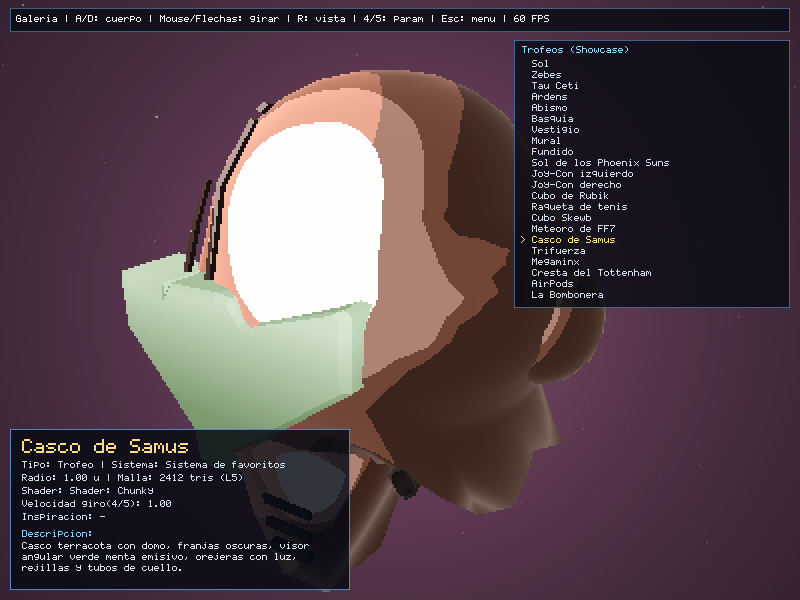
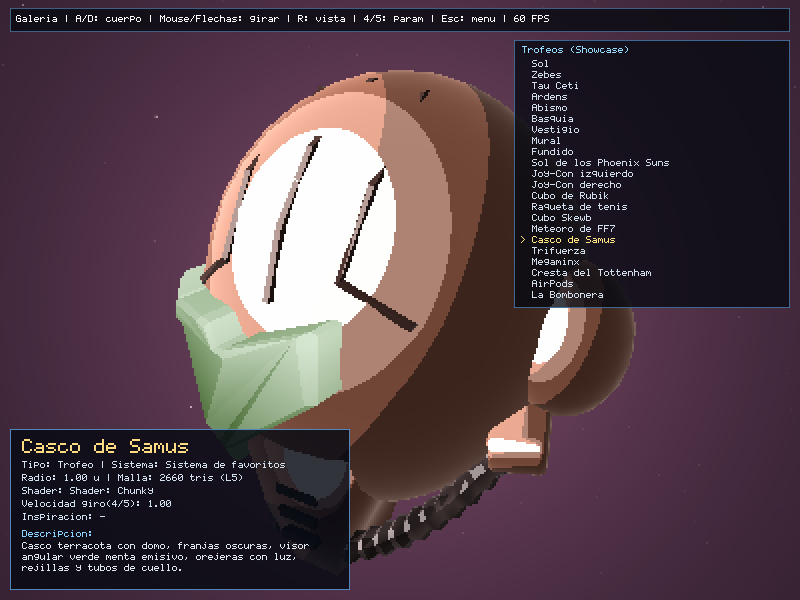
fix(bodies): Cerrar la herradura de La Bombonera y curvar el visor de Samus sobre la cúpula.

diff --git a/src/bodies.rs b/src/bodies.rs
@@ -1064,8 +1064,8 @@ fn samus_radial_at(angle: f32) -> f32 {
 }
 
 /// Construye el casco de Samus Aran a partir de las medidas de `refs/samus_helmet.jpg`:
-/// cúpula con perfil radial medido y barniz, 3 surcos oscuros proyectados, visor verde
-/// emisivo medido, barbilla con 3 rendijas, orejeras simétricas y mangueras acanaladas.
+/// cúpula ovalada con barniz, 3 surcos oscuros proyectados, visor verde emisivo curvado
+/// sobre el rostro, barbilla con 3 rendijas, orejeras simétricas con pómulos y mangueras acanaladas.
 pub fn build_samus_helmet_mesh(detail: usize) -> Mesh {
     use crate::samus_bombonera_data::*;
     let armor = rgb_vec(SAMUS_ARMOR_RGB);
@@ -1082,61 +1082,71 @@ pub fn build_samus_helmet_mesh(detail: usize) -> Mesh {
     };
 
     let mut mesh = Mesh::new();
-    let dome_depth = SAMUS_HALF_WIDTH * 0.85;
+    let rx = 0.78_f32;
+    let ry = 0.90_f32;
+    let rz = 0.84_f32;
 
-    // 1. Cúpula ovalada ajustando cada vértice al perfil radial frontal medido.
+    // Función de superficie de la cúpula para proyectar surcos y curvar el visor sin huecos.
+    let dome_z_at = |x: f32, y: f32| -> f32 {
+        let nx = x / rx;
+        let ny = (y - 0.04) / ry;
+        (1.0 - nx * nx - ny * ny).max(0.02).sqrt() * rz
+    };
+
+    // 1. Cúpula ovalada limpia con ligero estrechamiento hacia la mandíbula.
     let mut dome = sphere(1.0, rings, sectors);
     for p in &mut dome.positions {
-        let xy_len = (p.x * p.x + p.y * p.y).sqrt();
-        if xy_len > 1e-4 {
-            let ang = p.y.atan2(p.x);
-            let r_prof = samus_radial_at(ang).clamp(0.72, 1.04);
-            let scale_xy = r_prof * (0.94_f32).min(1.0 - (-p.y - 0.55).max(0.0) * 0.42);
-            p.x *= scale_xy;
-            p.y *= scale_xy;
-        }
-        p.z *= dome_depth;
+        let jaw_taper = 1.0 - 0.16 * (-p.y).max(0.0);
+        p.x *= rx * jaw_taper;
+        p.y = p.y * ry + 0.04;
+        p.z *= rz;
     }
     dome.compute_smooth_normals();
     dome.set_color(armor);
     dome.set_material(1); // barniz metálico
     mesh.merge(&dome);
 
-    // 2. Tres surcos oscuros proyectados sobre la superficie de la cúpula.
+    // 2. Tres surcos oscuros (central + 2 laterales) abrazando la cúpula hasta el visor.
     let groove_prof = rounded_rect_profile_2d(0.15, 1);
-    for groove in SAMUS_GROOVES {
-        if groove.len() < 2 {
-            continue;
-        }
-        let mut path = Vec::with_capacity(groove.len());
-        for &[gx, gy] in *groove {
-            let r_prof = samus_radial_at(gy.atan2(gx)).max(0.8);
-            let r2 = (gx * gx + gy * gy) / (r_prof * r_prof);
-            let gz = (1.0 - r2).max(0.05).sqrt() * dome_depth + 0.008;
-            path.push(Vector3::new(gx, gy, gz));
+    let groove_paths: Vec<Vec<[f32; 2]>> = vec![
+        vec![[0.0, 0.92], [0.0, 0.72], [0.0, 0.48], [0.0, 0.25]],
+        vec![[-0.22, 0.88], [-0.26, 0.62], [-0.24, 0.34], [-0.46, 0.20]],
+        vec![[0.22, 0.88], [0.26, 0.62], [0.24, 0.34], [0.46, 0.20]],
+    ];
+    for gpts in &groove_paths {
+        let mut path = Vec::with_capacity(gpts.len());
+        for &[gx, gy] in gpts {
+            path.push(Vector3::new(gx, gy, dome_z_at(gx, gy) + 0.006));
         }
         let widths = vec![0.032; path.len()];
-        let depths = vec![0.024; path.len()];
+        let depths = vec![0.022; path.len()];
         let mut ribbon = sweep_profile(&path, &widths, &depths, &groove_prof, false);
         ribbon.set_color(groove_col);
         ribbon.set_material(0);
         mesh.merge(&ribbon);
     }
 
-    // 3. Visor frontal medido (placa extruida adelantada y enterrada hacia la cúpula).
-    let visor_xz: Vec<[f32; 2]> = SAMUS_VISOR_POLY.iter().map(|&[x, y]| [x, -y]).collect();
-    let mut visor = beveled_extruded_contour(&visor_xz, 0.34, 0.94, 0.025);
+    // 3. Visor frontal medido, curvado sobre la superficie de la cúpula sin que la cúpula lo atraviese.
+    let visor_xz: Vec<[f32; 2]> = SAMUS_VISOR_POLY
+        .iter()
+        .map(|&[x, y]| [x * 0.84, -y * 0.84])
+        .collect();
+    let mut visor = beveled_extruded_contour(&visor_xz, 0.24, 0.94, 0.022);
     visor.rotate_x(FRAC_PI_2);
-    visor.translate(Vector3::new(0.0, 0.0, dome_depth * 0.80));
+    for p in &mut visor.positions {
+        let surf_z = dome_z_at(p.x, p.y);
+        p.z += surf_z + 0.02;
+    }
+    visor.compute_flat_normals();
     visor.set_color(visor_col);
     visor.set_material(2); // visor emisivo animado
     mesh.merge(&visor);
 
     // 4. Barbilla estrechándose hacia abajo con 3 rendijas horizontales oscuras.
     let chin_rings = vec![
-        (-0.96_f32, vec![[-0.14, 0.38], [0.14, 0.38], [0.11, 0.72], [-0.11, 0.72]]),
-        (-0.68, vec![[-0.22, 0.36], [0.22, 0.36], [0.18, 0.78], [-0.18, 0.78]]),
-        (-0.36, vec![[-0.26, 0.34], [0.26, 0.34], [0.24, 0.80], [-0.24, 0.80]]),
+        (-0.94_f32, vec![[-0.13, 0.34], [0.13, 0.34], [0.10, 0.64], [-0.10, 0.64]]),
+        (-0.66, vec![[-0.21, 0.32], [0.21, 0.32], [0.17, 0.72], [-0.17, 0.72]]),
+        (-0.34, vec![[-0.25, 0.30], [0.25, 0.30], [0.22, 0.76], [-0.22, 0.76]]),
     ];
     let mut chin = loft_rings(&chin_rings);
     chin.set_color(armor);
@@ -1144,41 +1154,41 @@ pub fn build_samus_helmet_mesh(detail: usize) -> Mesh {
     mesh.merge(&chin);
 
     for k in 0..3 {
-        let mut slat = box_mesh(0.22 - k as f32 * 0.02, 0.038, 0.06);
-        slat.translate(Vector3::new(0.0, -0.56 - k as f32 * 0.10, 0.77));
+        let mut slat = box_mesh(0.19 - k as f32 * 0.02, 0.038, 0.05);
+        slat.translate(Vector3::new(0.0, -0.54 - k as f32 * 0.10, 0.72));
         slat.set_color(grille_dark);
         slat.set_material(0);
         mesh.merge(&slat);
     }
 
-    // 5. Orejeras grandes simétricas a media altura.
+    // 5. Orejeras grandes simétricas a media altura y pómulos diagonales hacia la barbilla.
     for side in [-1.0_f32, 1.0] {
         let mut ear = sphere(1.0, ear_rings, ear_sectors);
-        ear.scale(Vector3::new(SAMUS_EAR_RADII[0], SAMUS_EAR_RADII[1], 0.28));
-        ear.translate(Vector3::new(side * SAMUS_EAR_CENTER[0], SAMUS_EAR_CENTER[1], -0.02));
+        ear.scale(Vector3::new(0.24, 0.30, 0.32));
+        ear.translate(Vector3::new(side * 0.74, -0.02, -0.02));
         ear.set_color(armor);
         ear.set_material(1);
         mesh.merge(&ear);
+
+        let mut cheek = rounded_box(0.22, 0.14, 0.48, 0.035, 1);
+        cheek.rotate_y(side * 0.30);
+        cheek.rotate_x(0.24);
+        cheek.translate(Vector3::new(side * 0.66, -0.28, 0.20));
+        cheek.set_color(armor);
+        cheek.set_material(1);
+        mesh.merge(&cheek);
     }
 
-    // 6. Dos mangueras acanaladas (8-10 costillas con radio ±15% alternando dos grises).
-    let hose_pts: Vec<[f32; 2]> = if SAMUS_HOSE_RIGHT_LINE.len() >= 2 {
-        SAMUS_HOSE_RIGHT_LINE.to_vec()
-    } else {
-        vec![[0.24, -0.78], [0.42, -0.68], [0.58, -0.52], [0.70, -0.32]]
-    };
+    // 6. Dos mangueras acanaladas (6/8/10 costillas ±15% alternando dos grises).
     let hose_prof = rounded_rect_profile_2d(0.42, (hose_prof_segs / 4).max(1));
     let mut path_pts = Vec::with_capacity(hose_ribs * 2 + 1);
     let mut widths = Vec::with_capacity(hose_ribs * 2 + 1);
     let total_steps = hose_ribs * 2;
     for s in 0..=total_steps {
         let t = s as f32 / total_steps as f32;
-        let seg_f = t * (hose_pts.len() - 1) as f32;
-        let i0 = (seg_f.floor() as usize).min(hose_pts.len() - 2);
-        let f = seg_f - i0 as f32;
-        let hx = hose_pts[i0][0] * (1.0 - f) + hose_pts[i0 + 1][0] * f;
-        let hy = hose_pts[i0][1] * (1.0 - f) + hose_pts[i0 + 1][1] * f;
-        let hz = 0.68 - t * 0.48;
+        let hx = 0.16 + t * 0.46;
+        let hy = -0.78 + t * t * 0.36;
+        let hz = 0.64 - t * 0.42;
         let rib_mod = if s % 2 == 1 { 1.15 } else { 0.85 };
         path_pts.push(Vector3::new(hx, hy, hz));
         widths.push(0.11 * rib_mod);
@@ -1362,17 +1372,28 @@ pub fn build_bombonera_mesh(detail: usize) -> Mesh {
     zocalo.set_color(zocalo_col);
     mesh.merge(&zocalo);
 
-    // 3. Herradura de gradas en D (3 lados: dos fondos + lado largo izquierdo -X).
+    // 3. Herradura de gradas en D (3 lados: cierra completamente contra los palcos en x = +0.44).
     let mut u_path = Vec::with_capacity(u_segs + 1);
     for i in 0..=u_segs {
         let t = i as f32 / u_segs as f32;
-        let a = -0.34 * std::f32::consts::PI + t * (1.68 * std::f32::consts::PI);
-        let ca = a.cos();
-        let sa = a.sin();
-        let x = ca.signum() * ca.abs().powf(0.45) * 0.58 - 0.08;
-        let y = sa.signum() * sa.abs().powf(0.45) * 0.86;
-        u_path.push(Vector3::new(x, y, 0.0));
+        if t < 0.16 {
+            let s = t / 0.16;
+            u_path.push(Vector3::new(0.42 - s * 0.62, -0.78, 0.0));
+        } else if t > 0.84 {
+            let s = (t - 0.84) / 0.16;
+            u_path.push(Vector3::new(-0.20 + s * 0.62, 0.78, 0.0));
+        } else {
+            let s = (t - 0.16) / 0.68;
+            let a = -0.5 * std::f32::consts::PI - s * std::f32::consts::PI;
+            let ca = a.cos();
+            let sa = a.sin();
+            let x = ca.signum() * ca.abs().powf(0.45) * 0.56 - 0.20;
+            let y = sa.signum() * sa.abs().powf(0.45) * 0.78;
+            u_path.push(Vector3::new(x, y, 0.0));
+        }
     }
+    // Invertir para que la normal N = T × Z apunte hacia afuera (gradas hacia la cancha).
+    u_path.reverse();
 
     // Perfil escalonado de 3 bandejas empinadas (proporción medida BOCA_TIER_PROPORTIONS).
     let mut profile_pts: Vec<[f32; 2]> = Vec::new();
@@ -1460,12 +1481,12 @@ pub fn build_bombonera_mesh(detail: usize) -> Mesh {
         }
     }
 
-    // 5. Edificio de palcos en el lado largo abierto (+X) con ventanas (12×6) y 2 torres.
+    // 5. Edificio de palcos en el lado largo abierto (+X) con ventanas (12×6) en ambas caras y 2 torres.
     let mut palcos = subdivided_pitch_slab(0.60, 0.18, pitch_l, 6, 12);
     palcos.rotate_z(FRAC_PI_2);
     palcos.translate(Vector3::new(0.54, 0.06, 0.0));
     palcos.paint_vertices(|_, p, n| {
-        if n.x < -0.5 && p.y > -0.18 && p.y < 0.30 {
+        if n.x.abs() > 0.5 && p.y > -0.18 && p.y < 0.30 {
             let r_idx = ((p.y + 0.18) * 14.0).floor() as i32;
             let c_idx = ((p.z + pitch_l * 0.5) * 9.0).floor() as i32;
             if r_idx.rem_euclid(2) == 1 && c_idx.rem_euclid(2) == 1 {
